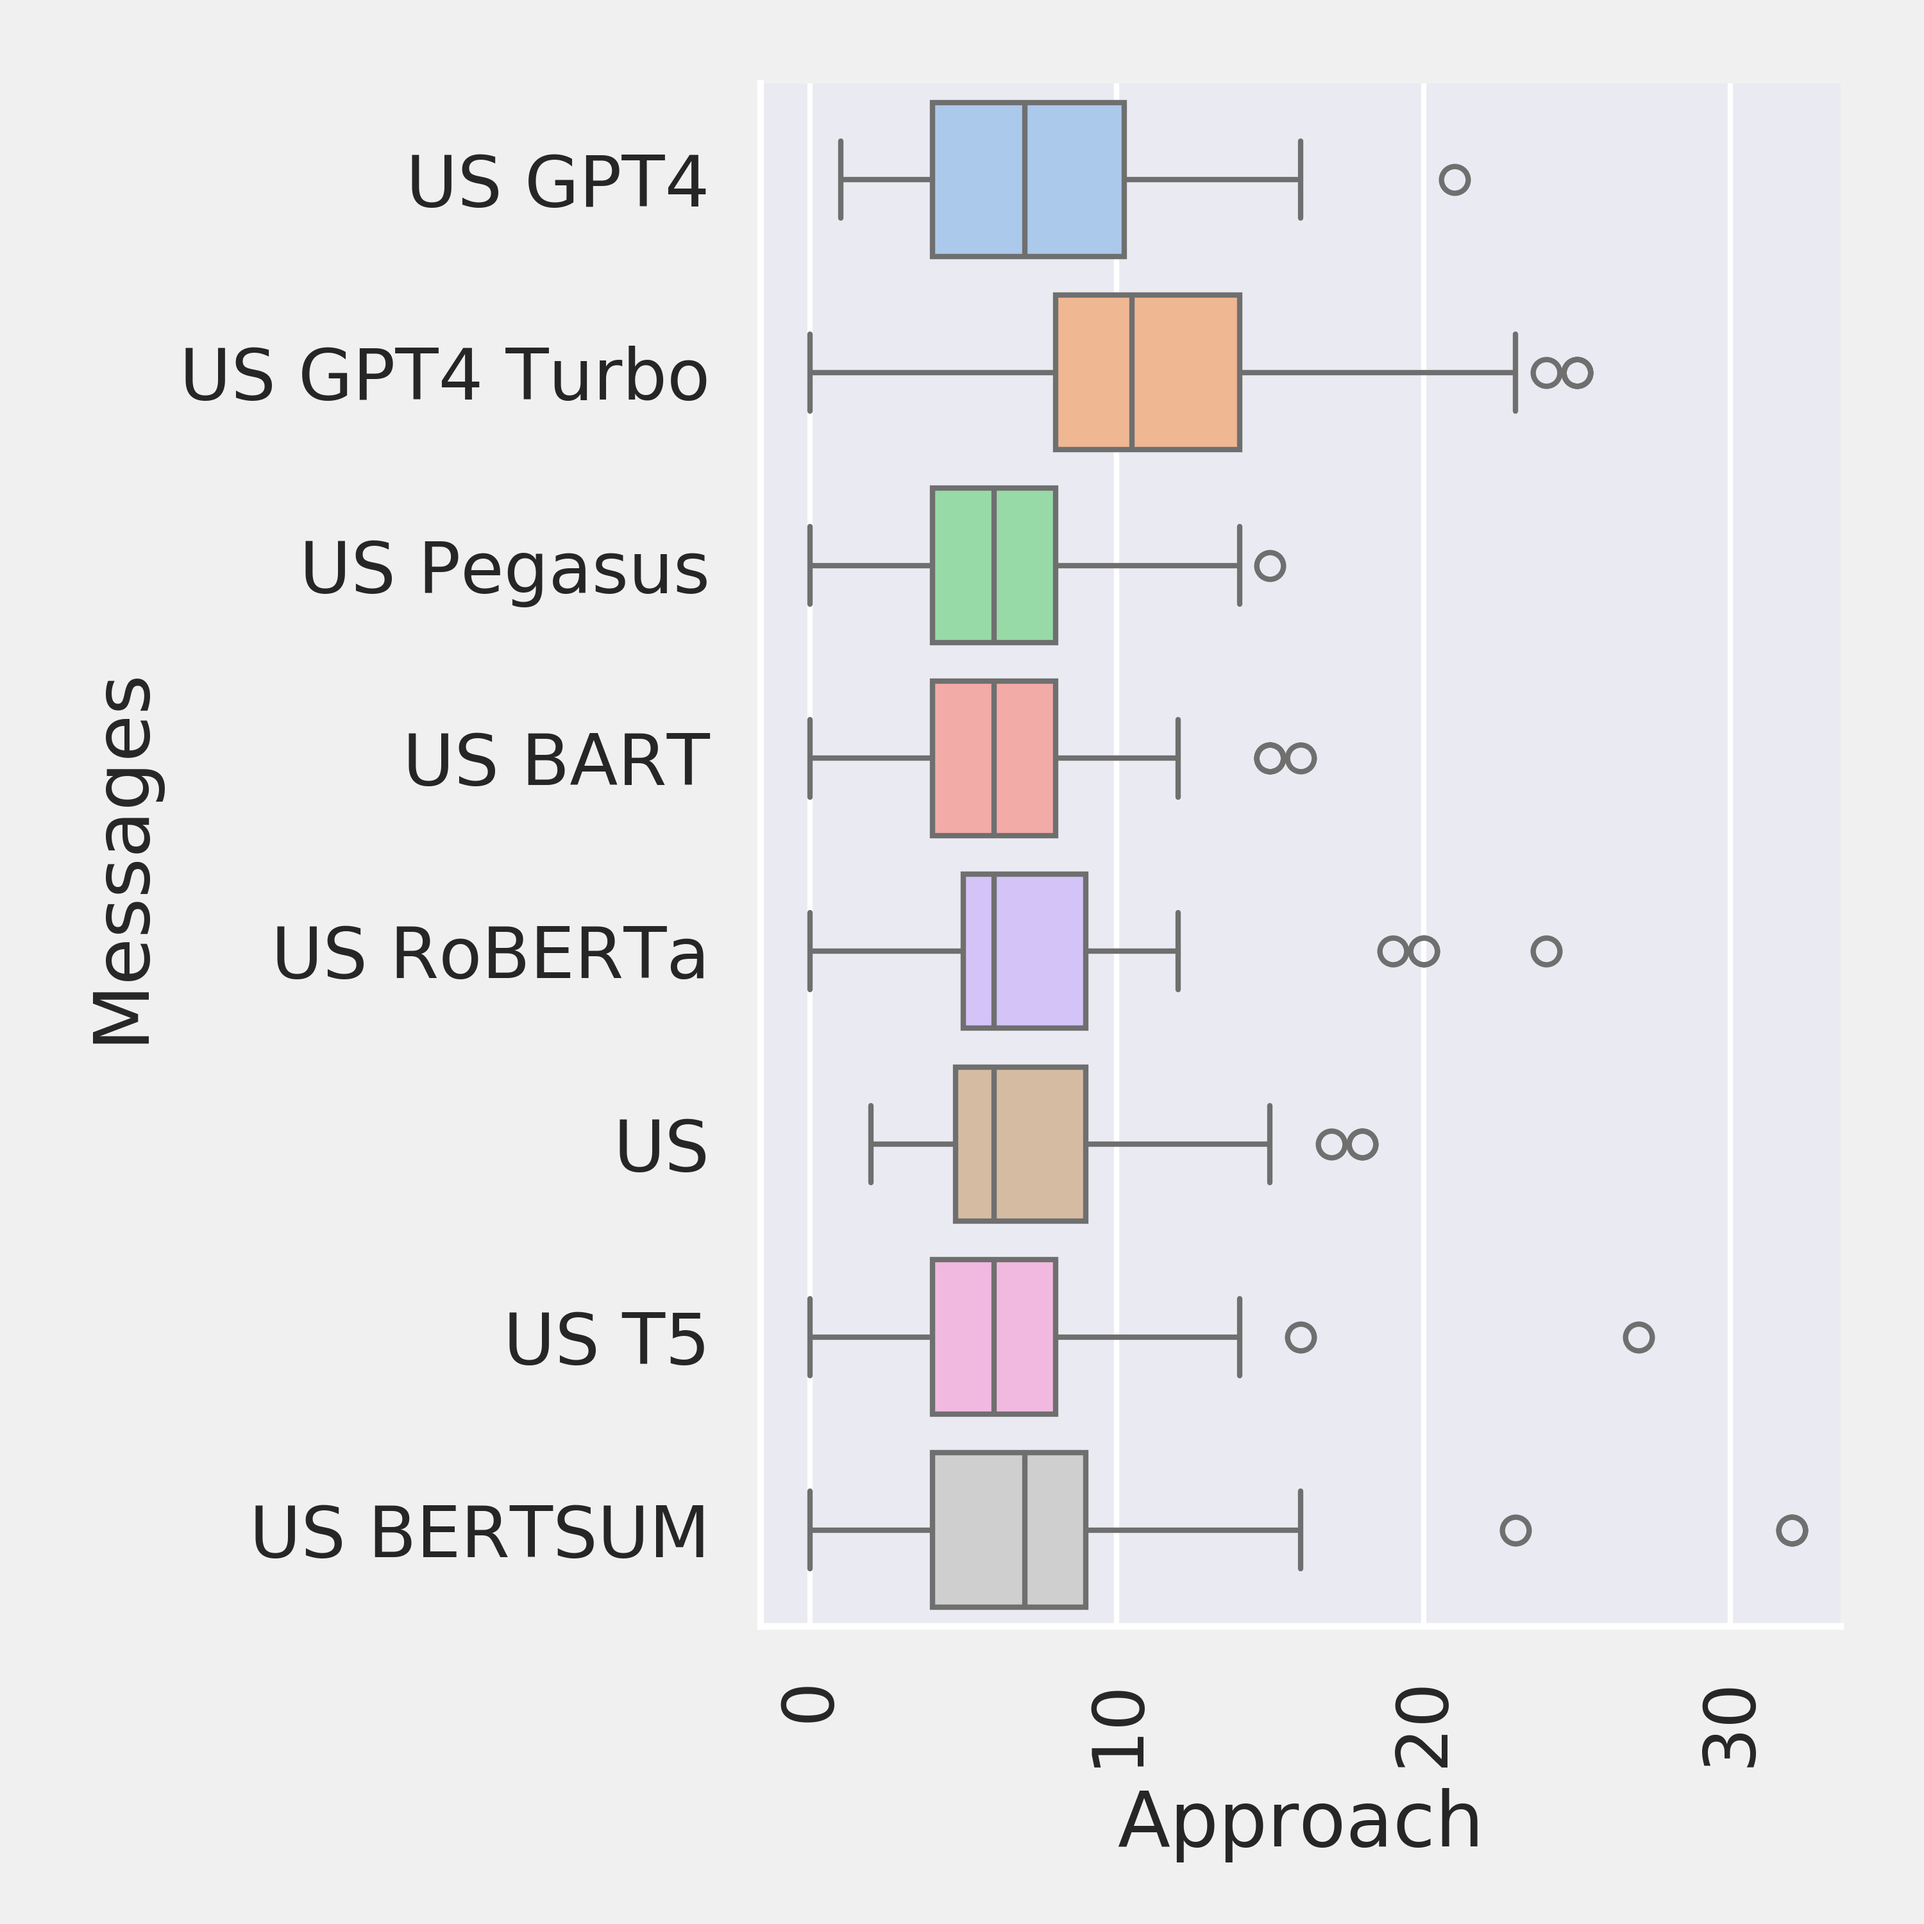
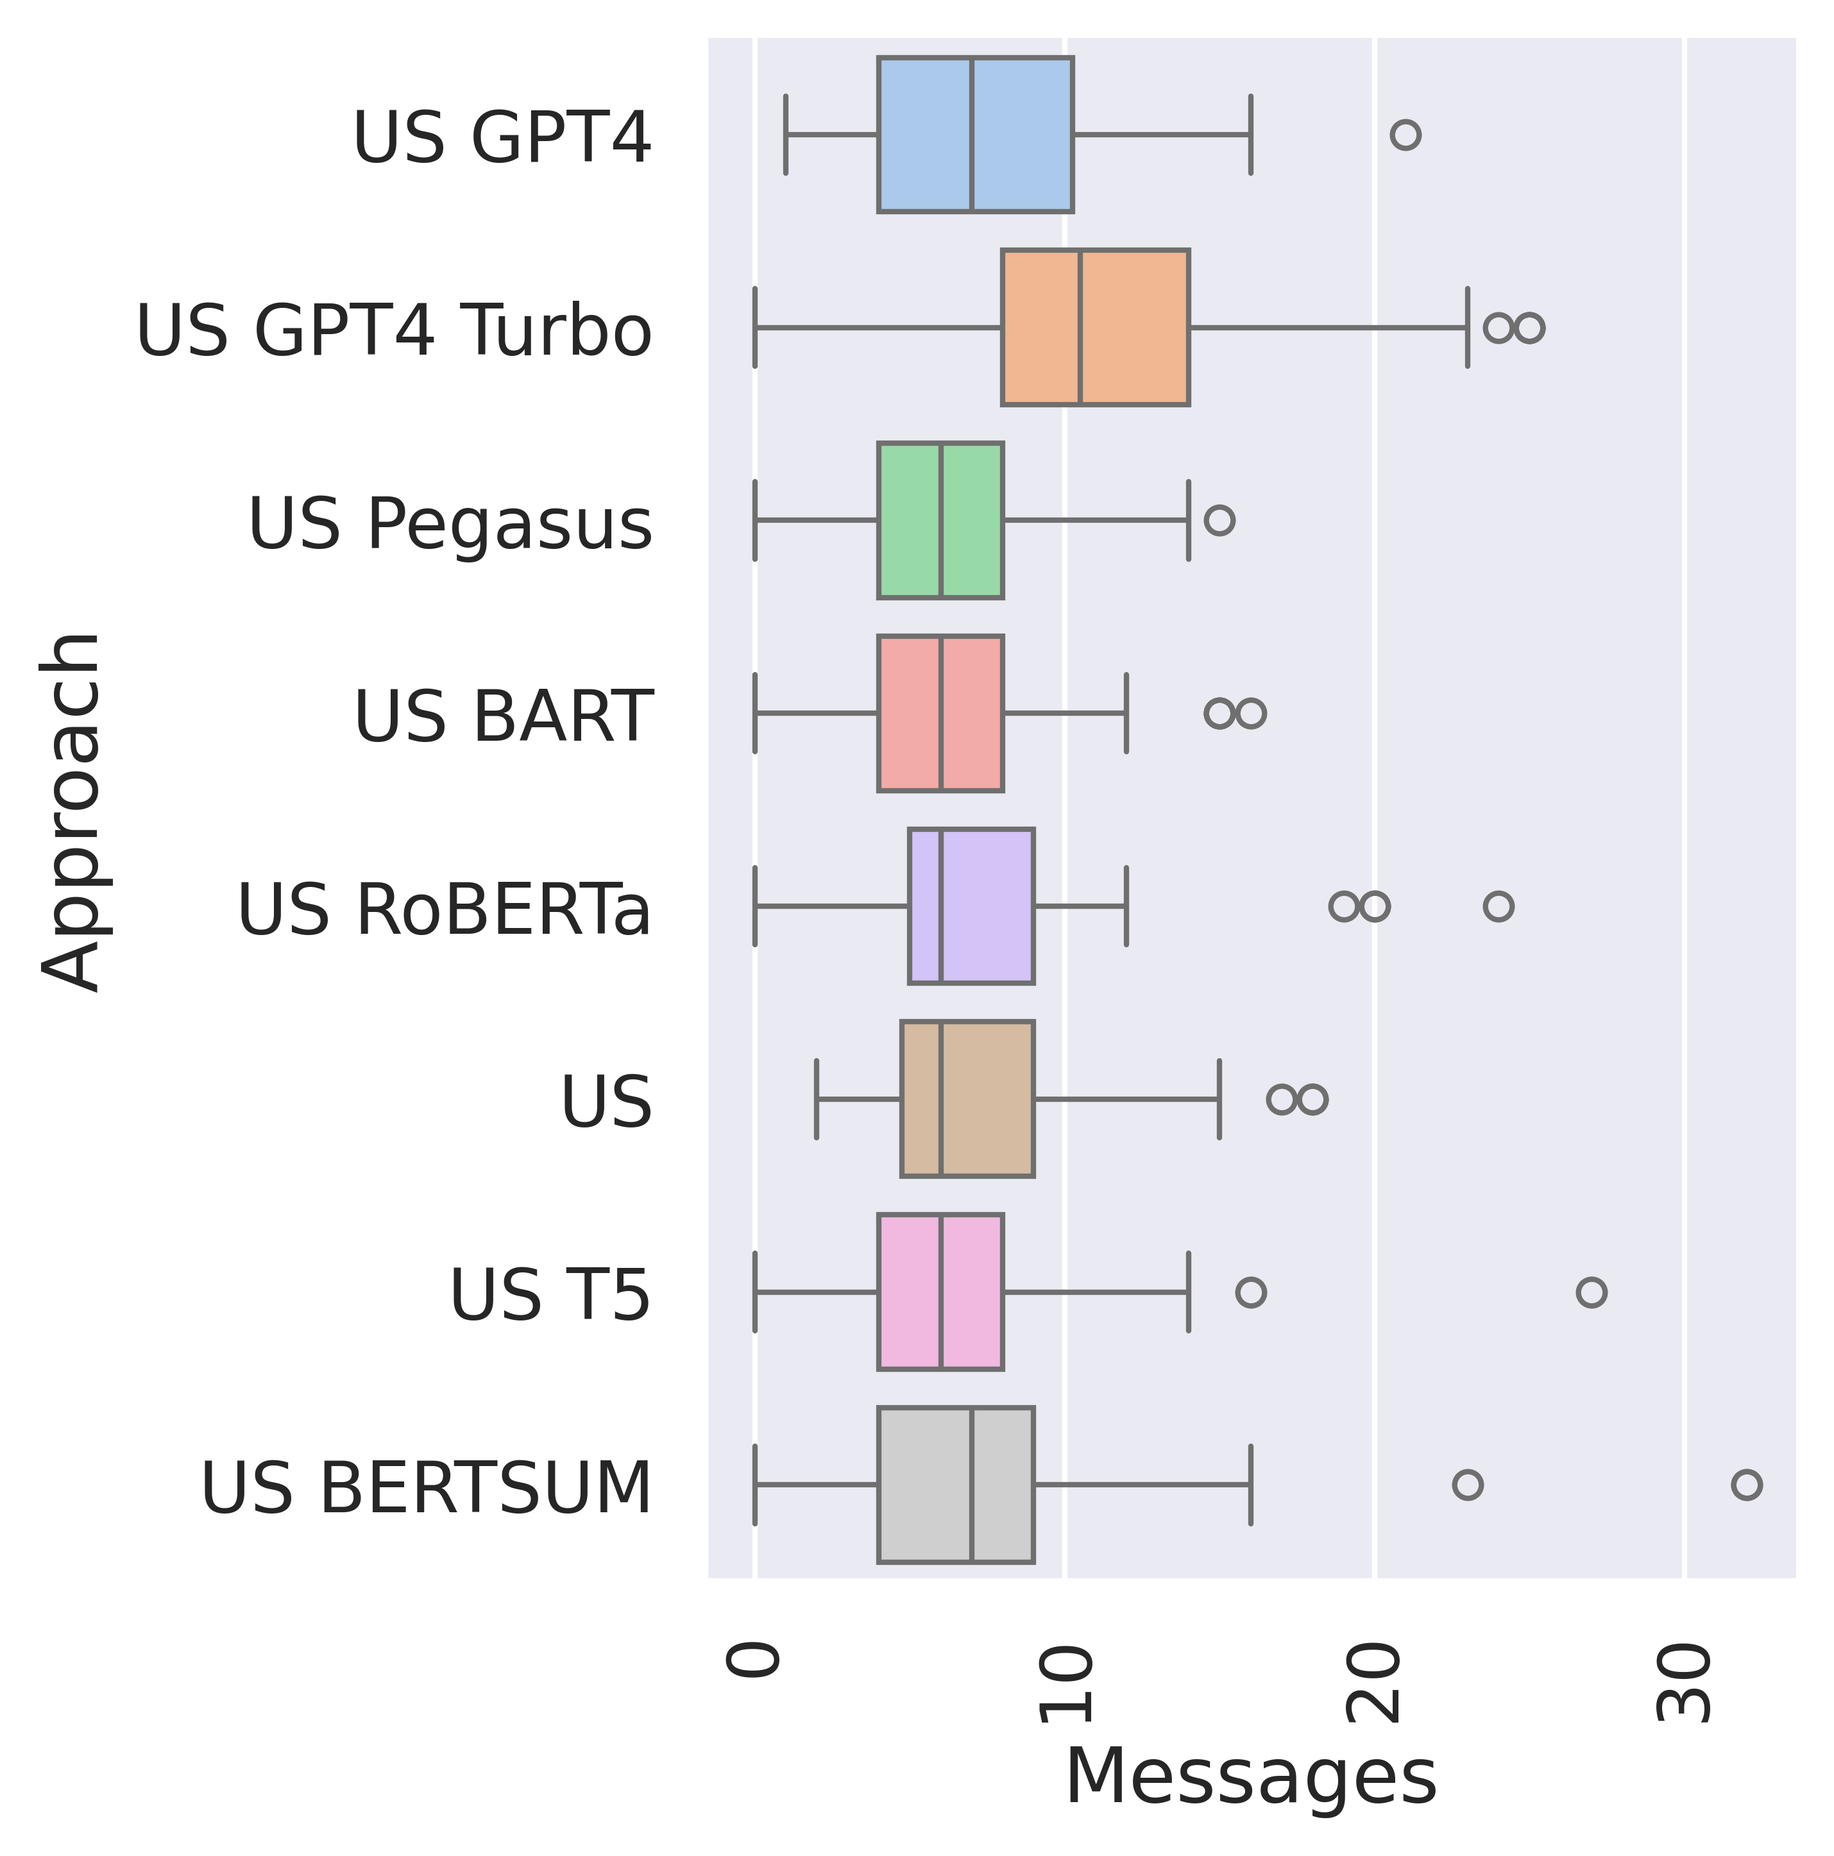
plots completed

diff --git a/src/Eval_vis.py b/src/Eval_vis.py
@@ -37,17 +37,134 @@ fig = plt.figure(figsize=(9, 11))
 
 plot = sns.catplot(
     data=df,
-    x="folder name",
-    y="messages",
+    y="folder name",
+    x="messages",
     # hue='cohesion',
     kind='box',
     palette = 'pastel'
 )
 # palettes: ch:.25, Blues,
 # plt.title("Number of Messages generated with each approach")
-plt.ylabel("Messages")
+plt.ylabel("Approach")
+plt.xlabel("Messages")
+plt.xticks(rotation=90)
+
+# plt.savefig("../images/1.png", dpi=600, bbox_inches = 'tight')
+
+
+
+
+
+
+#%%
+df.head()
+
+# %%
+fig = plt.figure(figsize=(9, 11))
+
+plot = sns.catplot(
+    data=df,
+    x="folder name",
+    y="lifelines",
+    # hue='cohesion',
+    kind='bar',
+    palette = 'pastel'
+)
+# palettes: ch:.25, Blues,
+# plt.title("Number of Messages generated with each approach")
+plt.ylabel("Lifelines")
 plt.xlabel("Approach")
 plt.xticks(rotation=90)
 
-plt.savefig("../images/2.png", dpi=600, bbox_inches = 'tight')
+plt.savefig("../images/3.png", dpi=600, bbox_inches = 'tight')
+# %%
+
+fig = plt.figure(figsize=(9, 11))
+
+plot = sns.catplot(
+    data=df,
+    x="folder name",
+    y="nesting_depth",
+    # hue='cohesion',
+    kind='bar',
+    palette = 'pastel',
+    ci=None,
+)
+# palettes: ch:.25, Blues,
+# plt.title("Number of Messages generated with each approach")
+plt.ylabel("Nesting Depth")
+plt.xlabel("Approach")
+plt.xticks(rotation=90)
+
+plt.savefig("../images/4.png", dpi=600, bbox_inches = 'tight')
+# %%
+
+fig = plt.figure(figsize=(9, 11))
+
+plot = sns.catplot(
+    data=df,
+    x="folder name",
+    y="cyclomatic_complexity",
+    # hue='cohesion',
+    kind='bar',
+    palette = 'pastel',
+    ci=None,
+)
+# palettes: ch:.25, Blues,
+# plt.title("Number of Messages generated with each approach")
+plt.ylabel("Cyclomatic Complexity")
+plt.xlabel("Approach")
+plt.xticks(rotation=90)
+
+plt.savefig("../images/5.png", dpi=600, bbox_inches = 'tight')
+# %%
+df['cohesion_numeric'] = df['cohesion'].apply(lambda x: 0 if x == 'Medium/Low' else 1 if x == 'High' else None)
+df.head()
+#%%
+fig = plt.figure(figsize=(9, 11))
+
+plot = sns.catplot(
+    data=df,
+    x="folder name",
+    y="cohesion_numeric",
+    # hue='cohesion',
+    kind='bar',
+    palette = 'pastel',
+    ci=None,
+)
+# palettes: ch:.25, Blues,
+# plt.title("Number of Messages generated with each approach")
+plt.ylabel("Cohesion")
+plt.xlabel("Approach")
+plt.xticks(rotation=90)
+
+plt.savefig("../images/6.png", dpi=600, bbox_inches = 'tight')
+
+
+#%%
+# cohesion,coupling,
+Counter(df["coupling"])
+# %%
+df['coupling_numeric'] = df['coupling'].apply(lambda x: 0 if x == 'Medium/Low' else 1 if x == 'High' else None)
+df.head()
+fig = plt.figure(figsize=(9, 11))
+
+plot = sns.catplot(
+    data=df,
+    x="folder name",
+    y="coupling_numeric",
+    # hue='cohesion',
+    kind='bar',
+    palette = 'pastel',
+    ci=None,
+)
+# palettes: ch:.25, Blues,
+# plt.title("Number of Messages generated with each approach")
+plt.ylabel("Coupling")
+plt.xlabel("Approach")
+plt.xticks(rotation=90)
+
+plt.savefig("../images/7.png", dpi=600, bbox_inches = 'tight')
+
+
 # %%
